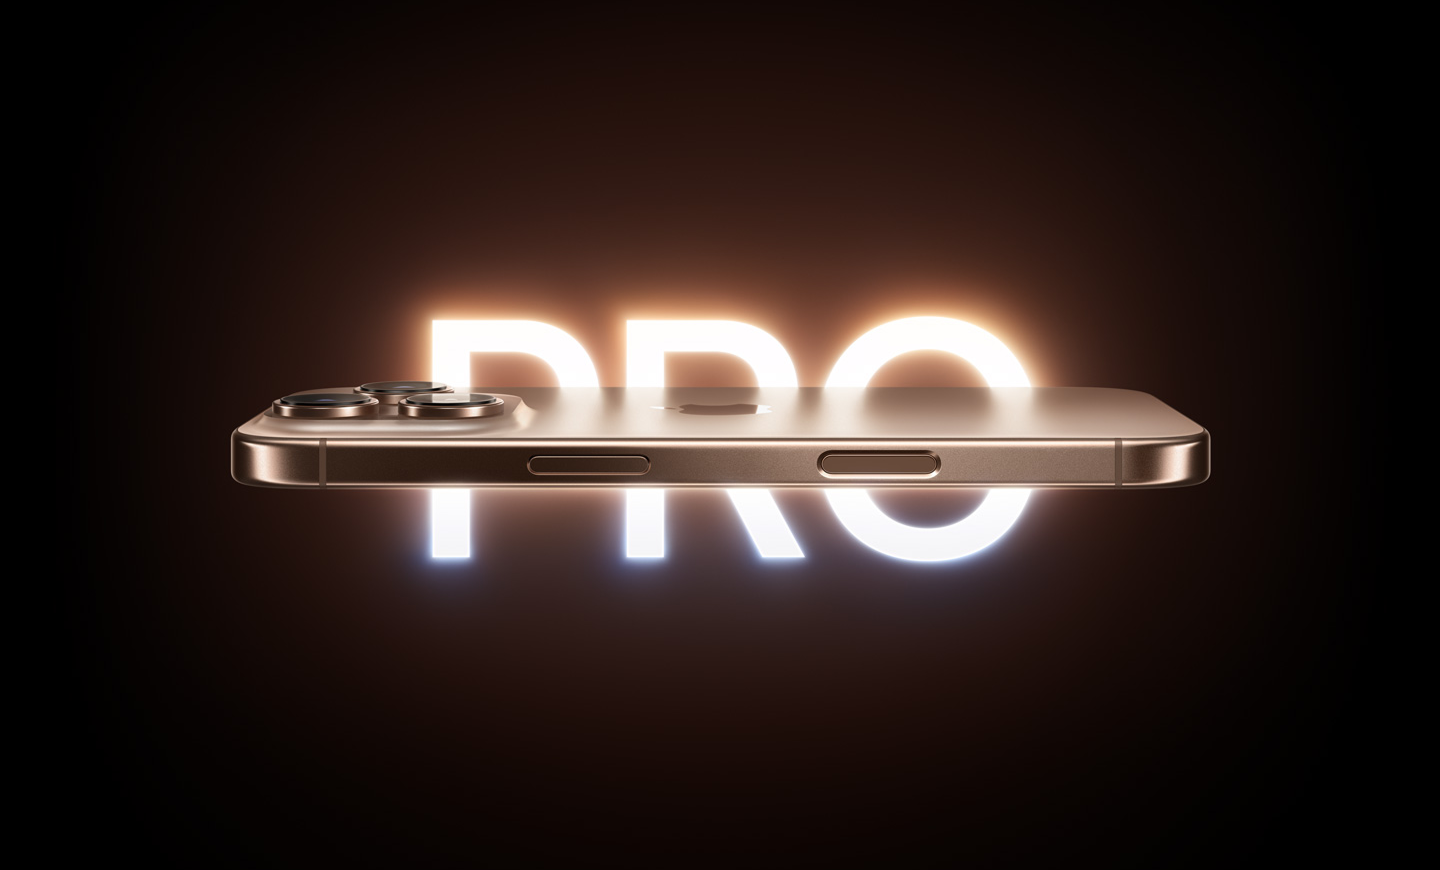
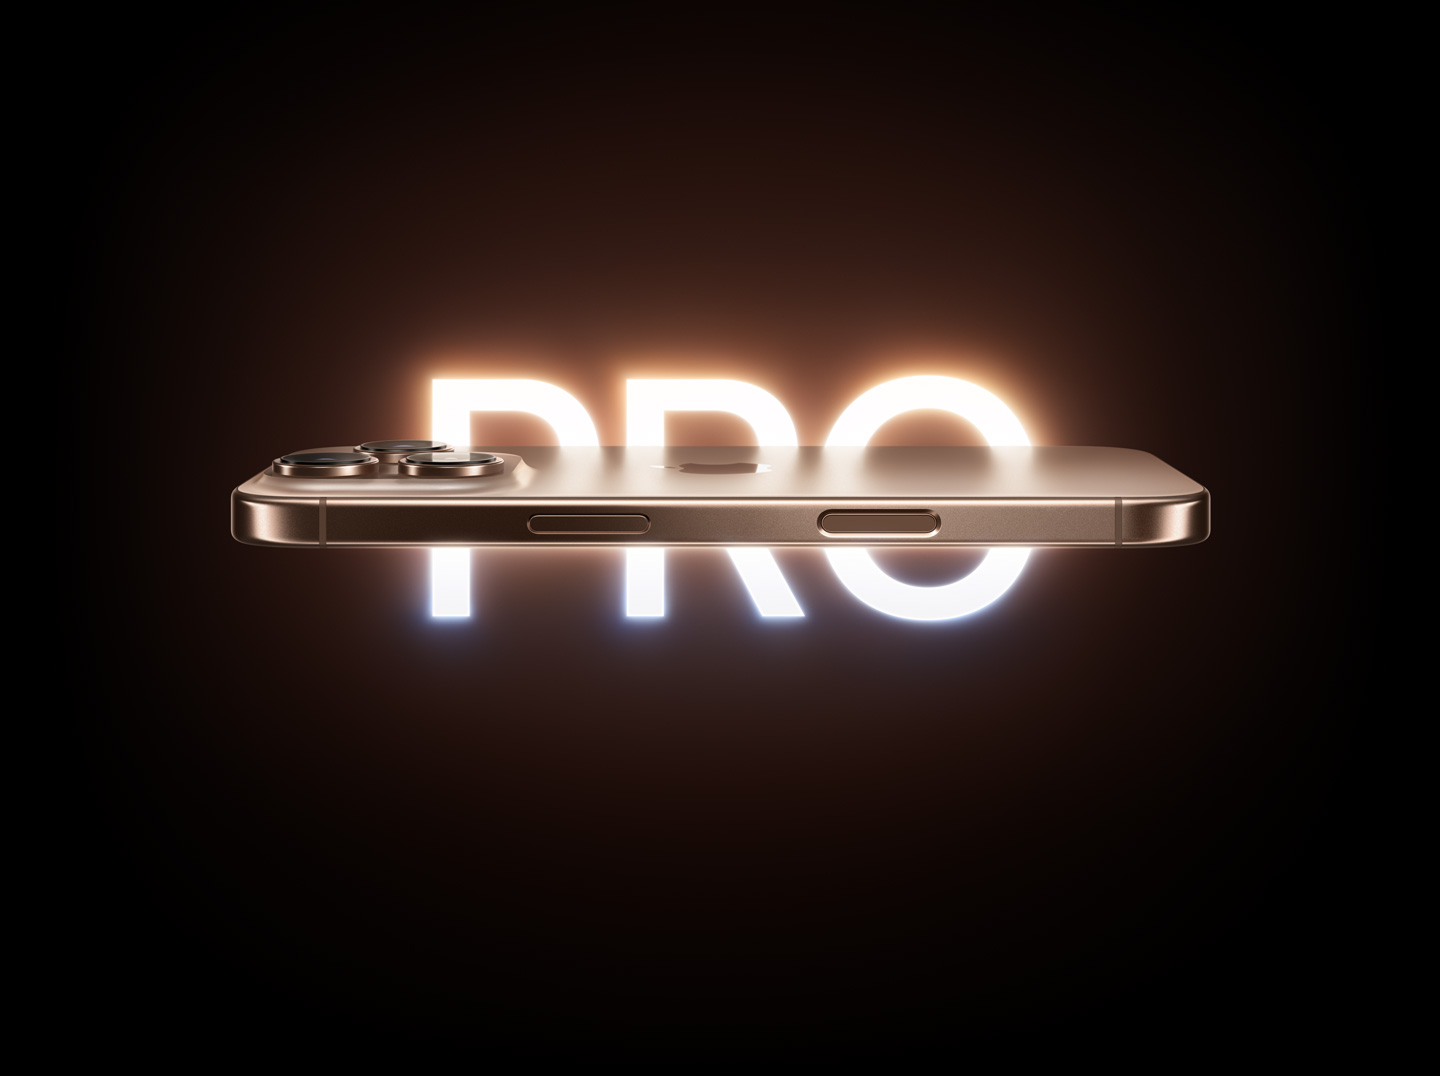
feat: added hhero section on home page

Changed region(s): [[0.1562, 0.3103, 0.8438, 0.7138]]

diff --git a/src/pages/home/Home.jsx b/src/pages/home/Home.jsx
@@ -72,7 +72,7 @@ export default function Home() {
       </section>
 
       <section className="bg-black pb-6 bg-[url('/heroImg/iphone16Pro.png')] h-full bg-cover">
-        <div className="pt-36 max-w-1/2 mx-auto flex flex-col items-center space-y-6">
+        <div className="pt-60 max-w-1/2 mx-auto flex flex-col items-center space-y-6">
           <h1 className="text-white text-center text-6xl ">Iphone 16 Pro</h1>
           <div className="pt-120" />
           <p className="text-white text-center text-xl ">
@@ -91,14 +91,53 @@ export default function Home() {
           </div>
         </div>
         <div className="flex items-center justify-center space-x-4">
-          <button className="px-6 py-3 rounded-full border border-white text-white font-semibold hover:bg-white hover:text-black transition-all duration-300 cursor-pointer">
+          <button
+            onClick={() => navigate("/iphone")}
+            className="px-6 py-3 rounded-full border border-white text-white font-semibold hover:bg-white hover:text-black transition-all duration-300 cursor-pointer"
+          >
             Learn More
           </button>
-          <button className="px-6 py-3 rounded-full border border-white text-white font-semibold hover:bg-white hover:text-black transition-all duration-300 cursor-pointer">
+          <button
+            onClick={() => navigate("/store")}
+            className="px-6 py-3 rounded-full border border-white text-white font-semibold hover:bg-white hover:text-black transition-all duration-300 cursor-pointer"
+          >
             View Pricing
           </button>
         </div>
-        {/* <img src="/heroImg/iphone16Pro.png" alt="" className="w-full" /> */}
+      </section>
+
+      <section className=" pb-6 bg-[url('/heroImg/iphone16.png')] h-full bg-cover">
+        <div className="pt-30 max-w-1/2 mx-auto flex flex-col items-center space-y-6">
+          <h1 className="text-white text-center text-6xl ">Iphone 16</h1>
+          <div className="pt-120" />
+          <p className="text-white text-center text-xl ">
+            Built for Apple Intelligence to help you write, express yourself,
+            and get things done effortlessly. Camera Control, an easier way to
+            quickly access camera tools. And the custom-built A18 chip.
+          </p>
+          <div className="py-4">
+            <p className="text-white text-center text-base ">
+              Pre-order starting 9.13 Available starting 9.20
+            </p>
+            <p className="text-white text-center text-base ">
+              Apple Intelligence coming this fall
+            </p>
+          </div>
+        </div>
+        <div className="flex items-center justify-center space-x-4">
+          <button
+            onClick={() => navigate("/iphone")}
+            className="px-6 py-3 rounded-full border border-white text-white font-semibold hover:bg-white hover:text-black transition-all duration-300 cursor-pointer"
+          >
+            Learn More
+          </button>
+          <button
+            onClick={() => navigate("/store")}
+            className="px-6 py-3 rounded-full border border-white text-white font-semibold hover:bg-white hover:text-black transition-all duration-300 cursor-pointer"
+          >
+            View Pricing
+          </button>
+        </div>
       </section>
 
       {/* Produk Unggulan */}

diff --git a/src/pages/cms/OrderList.jsx b/src/pages/cms/OrderList.jsx
@@ -150,6 +150,10 @@ export default function OrderList() {
                     <span className="w-40 font-medium">Alamat</span>
                     <span>: {order.alamatLengkap}</span>
                   </div>
+                  <div className="flex">
+                    <span className="w-40 font-medium">Pesan Buyer</span>
+                    <span>: {order.pesan}</span>
+                  </div>
                 </div>
               </div>
               {order.status === "pending" && (
